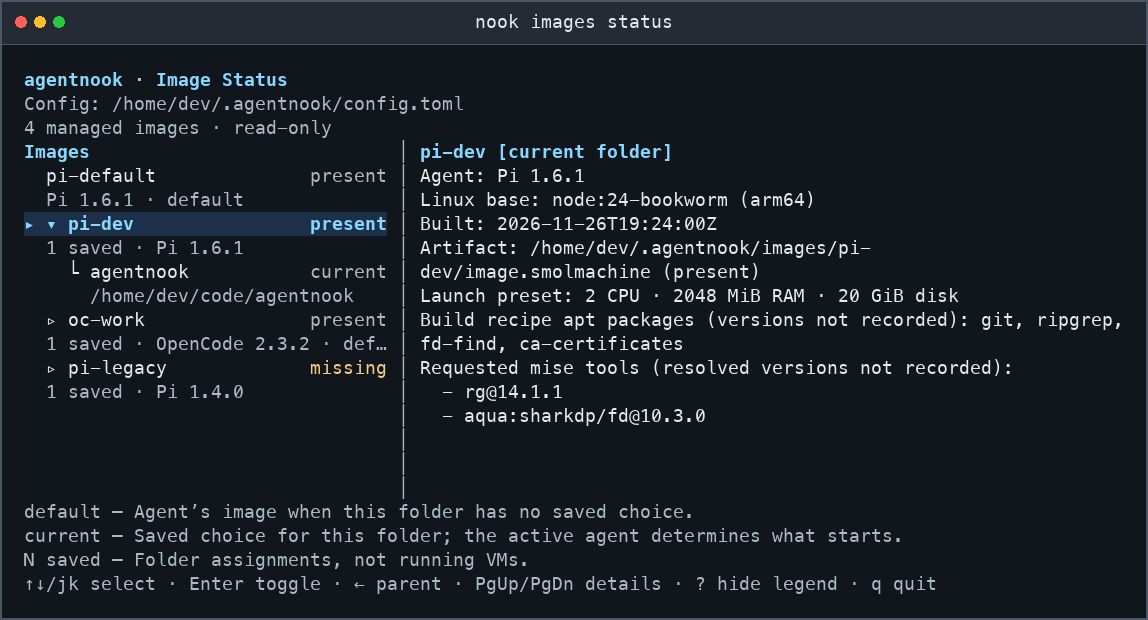
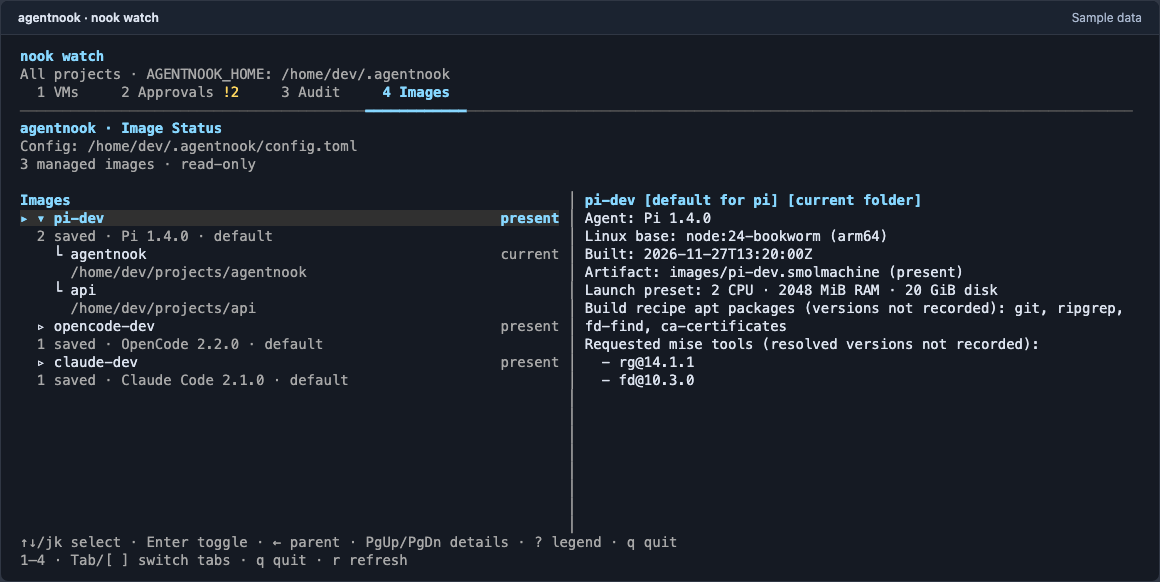
docs: translate README and refresh Watch screenshots

diff --git a/README.md b/README.md
@@ -4,120 +4,123 @@
 
 # agentnook
 
-Eine eigene Ecke für deinen Coding-Agenten. `nook` startet **Pi**, **OpenCode v2** oder **Claude Code** in einer kurzlebigen [smolvm](https://github.com/smol-machines/smolvm)-VM. Logins, Einstellungen, Skills und Erweiterungen bleiben erhalten.
+A nook of its own for your coding agent. `nook` runs **Pi**, **OpenCode v2**, or **Claude Code** in a short-lived [smolvm](https://github.com/smol-machines/smolvm) VM. Logins, settings, skills, and extensions persist after the VM exits.
 
-## Schnellstart
+## Quick start
 
-Voraussetzungen: macOS mit Apple Silicon oder Linux mit KVM; **smolvm ≥ 1.36.1** im `PATH`.
+Requirements: macOS on Apple Silicon or Linux with KVM, and **smolvm ≥ 1.36.1** on your `PATH`.
 
 ```sh
 curl -qfsS https://raw.githubusercontent.com/flobilosaurus/agentnook/main/install.sh | sh
 ```
 
-Danach `nook` im Projektordner starten.
+Then run `nook` from your project directory.
 
-## Wichtige Befehle
+## Common commands
 
-| Befehl | Zweck |
+| Command | What it does |
 | --- | --- |
-| `nook --select` | Agent oder Profil wechseln |
-| `nook -- --continue` | Argumente an den Agenten weitergeben |
-| `nook --mount ../lib:/mnt/lib:ro` | Zusätzlichen Ordner schreibgeschützt freigeben |
-| `nook --env GITHUB_TOKEN` | Gespeicherte Liste freigegebener Host-Variablen ersetzen |
-| `nook --clear-env` | Gespeicherte Variablenfreigaben entfernen |
-| `nook images` | Lokale Images anzeigen |
-| `nook images status` | Aufbau der Images und Toollisten anzeigen |
-| `nook watch` | VMs, TCP-Freigaben, Netzwerk-Audit und Images in einer TUI |
-| `nook network` | Watch direkt im Tab Approvals öffnen (`--json` für Skripte) |
-| `nook --help-all` | Alle Optionen anzeigen |
+| `nook --select` | Switch agents or profiles |
+| `nook -- --continue` | Pass arguments to the agent |
+| `nook --mount ../lib:/mnt/lib:ro` | Share an additional directory read-only |
+| `nook --env GITHUB_TOKEN` | Replace the saved list of forwarded host variables |
+| `nook --clear-env` | Clear saved environment variable forwarding |
+| `nook images` | List local images |
+| `nook images status` | Inspect image contents and tool lists |
+| `nook watch` | View VMs, TCP approvals, network audit, and images in one terminal UI |
+| `nook network` | Open Watch on the Approvals tab (`--json` for scripts) |
+| `nook --help-all` | Show all options |
 
-## Umgebungsvariablen freigeben
+## Forward environment variables
 
 ```sh
 nook --env GITHUB_TOKEN --env OPENAI_API_KEY
 ```
 
-`--env` ersetzt die bisherige Liste für diesen Projektordner und Agenten. `config.toml` speichert nur Namen, keine Werte. Ein späterer Start mit `nook` verwendet die Liste erneut und liest die aktuellen Werte vom Host. `nook --clear-env` entfernt die Freigaben für künftige Starts.
+`--env` replaces the saved list for this project directory and agent. `config.toml` stores names only, never values. On later launches, `nook` reuses the list and reads current values from the host. `nook --clear-env` clears the list for future launches.
 
-Die Variablen müssen auf dem Host exportiert sein. Fehlende Variablen führen zum Abbruch. `--env` akzeptiert keine `NAME=WERT`-Zuweisungen. `--dry-run` zeigt nur Namen und ändert nichts an der Konfiguration.
+Export the variables on the host before launching. If a variable is missing, launch fails. `--env` does not accept `NAME=VALUE` assignments. `--dry-run` shows names only and does not change configuration.
 
-**Nur bewusst freigeben:** Der Agent und seine Kindprozesse können die Werte bei jedem Start lesen und weitergeben.
+**Forward only what you intend to share:** The agent and its child processes can read and pass on these values on every launch.
 
-## Images und Tools
+## Images and tools
 
-`nook images build` installiert zusätzliche Tools mit [mise](https://mise.jdx.dev/) fest ins Image.
+`nook images build` uses [mise](https://mise.jdx.dev/) to install extra tools into the image.
 
-**`--tool NAME@VERSION`** gibt ein Tool direkt an. Wiederhole das Flag für weitere Tools:
+**`--tool NAME@VERSION`** specifies a tool directly. Repeat the flag to add more tools:
 
 ```sh
 nook images build pi-dev --agent pi --tool rg@14.1.1 --tool fd@10.3.0
 ```
 
-**`--mise-config PFAD`** übernimmt `[tools]` aus einer mise-TOML-Datei, ohne Tasks oder Hooks auszuführen:
+**`--mise-config PATH`** reads the `[tools]` section of a mise TOML file without running tasks or hooks:
 
 ```sh
 nook images build pi-dev --agent pi --mise-config ./mise.toml
 ```
 
-Beide Flags lassen sich kombinieren.
+You can combine both flags. See built images and their tools in the [Images tab](#4-images).
 
-`nook images status` zeigt Images, Tools und gespeicherte Projektzuordnungen, ohne eine VM zu starten. Die Details einer Projektzuordnung zeigen die konfigurierten Variablennamen, nie Werte.
+## Customize agent settings, skills, and extensions
 
-![Image-Status mit ausgewähltem Pi-Image, mise-Tools und aufgeklappter Projektzuordnung](docs/screenshots/images-status.png)
+A **profile**, such as `work` or `private`, stores logins, settings, skills, and extensions separately for each agent. This data survives VM shutdown and is shared across projects that use the same profile and agent.
 
-## Einstellungen / Skills / Erweiterungen des Agenten bearbeiten
+On the host, agent data lives at `~/.agentnook/profiles/<profile>/<agent>/`. If `AGENTNOOK_HOME` is set, `profiles/` lives there instead. Inside the VM, the agent's directory is its home directory (`~`).
 
-Ein **Profil** wie `arbeit` oder `privat` speichert Logins, Einstellungen, Skills und Erweiterungen pro Agent. Die Daten bleiben nach VM-Ende erhalten und werden in allen Projekten mit demselben Profil und Agenten wiederverwendet.
+**Settings and skills:** If you change settings or add a skill in a Pi VM using the `work` profile, other Pi sessions with `work` use the same files. In running sessions, `/reload` picks up changes; new Pi sessions read them automatically. Some settings, such as the default thinking level, apply only at startup. Other profiles are unaffected.
 
-Auf dem Host: `~/.agentnook/profiles/<profil>/<agent>/`. Ist `AGENTNOOK_HOME` gesetzt, liegt `profiles/` dort. In der VM ist der jeweilige Agentenordner das Home-Verzeichnis (`~`).
-
-**Einstellungen und Skills:** Änderst du in einer Pi-VM Einstellungen oder fügst einen Skill im Profil `arbeit` hinzu, nutzen andere Pi-Sessions mit `arbeit` dieselben Dateien. In bereits laufenden Sessions lädt `/reload` die Änderungen ein; neue Pi-Starts lesen sie automatisch. Manche Einstellungen, etwa der Standard-Denkmodus, greifen erst beim Start. Andere Profile bleiben unverändert.
-
-| Agent | Einstellungsdatei in der VM | Skill-Ordner in der VM |
+| Agent | Settings file in the VM | Skills directory in the VM |
 | --- | --- | --- |
 | Pi | `~/.pi/agent/settings.json` | `~/.pi/agent/skills/` |
 | OpenCode v2 | `~/.config/opencode/opencode.json` | `~/.config/opencode/skills/` |
 | Claude Code | `~/.claude/settings.json` | `~/.claude/skills/` |
 
-**Erweiterungen installieren:** Platzhalter durch Paket- oder Plugin-Namen ersetzen:
+**Install extensions:** Replace the placeholders with package or plugin names:
 
 ```sh
-nook --agent pi --profile arbeit -- install npm:PAKETNAME </dev/null
-nook --agent opencode --profile arbeit -- plugin add PAKETNAME
-nook --agent claude --profile arbeit -- plugin install PLUGIN@MARKETPLACE --scope user
+nook --agent pi --profile work -- install npm:PACKAGE </dev/null
+nook --agent opencode --profile work -- plugin add PACKAGE
+nook --agent claude --profile work -- plugin install PLUGIN@MARKETPLACE --scope user
 ```
 
-Lokale Erweiterungen gehören bei Pi nach `~/.pi/agent/extensions/`, bei OpenCode nach `~/.config/opencode/plugins/` (VM-Pfade). Danach Agent neu starten.
+Inside the VM, put local Pi extensions in `~/.pi/agent/extensions/` and OpenCode plugins in `~/.config/opencode/plugins/`. Then restart the agent.
 
-## Einblicke ins Terminal
+## `nook watch`
 
-### `nook watch`
+Open `nook watch` in a separate terminal. Watch covers all projects in the current `AGENTNOOK_HOME` without starting or stopping VMs. At 80 columns or wider, the list and details appear side by side.
 
-`nook watch` vereint vier Tabs im aktuellen `AGENTNOOK_HOME`. Wechsel mit `1`–`4`, `Tab` oder `Shift+Tab`. Ab 80 Spalten stehen Listen und Details nebeneinander.
+- `1`–`4`, `Tab`, or `Shift+Tab`: switch tabs.
+- `↑`/`↓` or `j`/`k`: select an entry.
+- `q`: close Watch. Running VMs stay active.
 
-| Tab | Inhalt |
-| --- | --- |
-| `1 VMs` | Laufende Agenten-VMs aller Projekte, gruppiert nach Profil. Details zeigen beim Start freigegebene Variablennamen, nie Werte. `Enter` öffnet das Audit der gewählten VM. |
-| `2 Approvals` | Offene TCP-Anfragen in `ask` und jüngste Entscheidungen. Anfrage auswählen, dann `a` einmal erlauben, `s` für diesen VM-Lauf erlauben oder `d` ablehnen. |
-| `3 Audit` | Schreibgeschützte Netzwerkhistorie inklusive beendeter VMs. `PgUp`/`PgDn` blättert, `f` filtert laufende VMs, `x` löscht einen VM-Filter. |
-| `4 Images` | Image-Status, Tools und gespeicherte Projektzuordnungen. `r` aktualisiert. |
+### 1 VMs
 
-Watch startet oder stoppt keine VM. `nook network` und interaktives `nook images status` öffnen die passenden Watch-Tabs.
+Running agent VMs, grouped by profile. Details show VM status and agent activity separately, along with launch limits, mounts, and the names of variables forwarded at launch, never their values. Press `Enter` to open the audit for the selected VM.
 
-![Watch-Ansicht mit laufenden Pi-, OpenCode- und Claude-Code-VMs in den Profilen private und work](docs/screenshots/watch.png)
+![Watch VMs tab: four sample VMs in two profiles, with the VM list on the left and details on the right](docs/screenshots/watch.png)
 
-### Herdr
+### 2 Approvals
 
-Startest du `nook` interaktiv in einem [Herdr](https://herdr.dev/)-Pane, meldet es den Status von Pi, OpenCode v2 oder Claude Code automatisch an dieses Pane. So siehst du in Herdr, welcher Agent arbeitet (`working`), bereit ist (`idle`) oder auf deine Eingabe wartet (`blocked`), ohne zum jeweiligen Tab wechseln zu müssen.
+Pending TCP requests in `--network ask` mode and recent decisions. Select a request and press `a` to allow it once, `s` to allow that exact destination IP and port for the current VM run, or `d` to deny it. Unanswered requests are denied after 12 seconds. `nook network` opens this tab directly.
 
-Herdr kann aus Statuswechseln in Hintergrund-Tabs Benachrichtigungen erzeugen: **Braucht Aufmerksamkeit** beim Wechsel zu `blocked`, **Fertig** beim Wechsel von `working` oder `blocked` zu `idle`.
+![Watch Approvals tab: two pending TCP requests and details for the selected request](docs/screenshots/network.png)
 
-### `nook network`
+### 3 Audit
 
-Im Tab **Approvals** entscheidest du im Modus `--network ask`, welche ausgehenden TCP-Verbindungen der Agent aufbauen darf. Öffne Watch dafür in einem separaten Terminal. Unbeantwortete Anfragen werden nach 12 Sekunden abgelehnt. Der Tab **Audit** zeigt gespeicherte Entscheidungen auch nach Ende der VM: erlaubte und blockierte Zugriffe in `ask`, nur blockierte in `full`.
+Read-only network history, including VMs that have stopped. `ask` records both allowed and blocked decisions; `full` records only blocked ones. Use `PgUp`/`PgDn` to page through history, `f` to toggle between all VMs and running VMs only, and `x` to clear a single-VM filter.
 
-![Network-Ansicht mit zwei offenen TCP-Anfragen und den letzten Netzwerkentscheidungen](docs/screenshots/network.png)
+`nook network --machine NAME` opens the audit for that VM. `nook network --json` outputs the data without opening the TUI.
 
-`nook network --json` gibt die Daten weiterhin ohne TUI aus. Die Screenshots zeigen frühere Einzelansichten.
+![Watch Audit tab: allowed and blocked decisions for running and stopped VMs](docs/screenshots/network-history.png)
 
-![Audit mit erlaubten und blockierten Zugriffen laufender und beendeter VMs](docs/screenshots/network-history.png)
+### 4 Images
+
+Managed images, installed tools, and saved project assignments. Assignment details show configured environment variable names, never values. Press `Enter` to expand or collapse an image's assignments and `r` to refresh. `nook images status` opens this tab in a terminal and prints plain text otherwise.
+
+![Watch Images tab: a Pi image with mise tools and expanded project assignments](docs/screenshots/images-status.png)
+
+## Herdr
+
+When you run `nook` interactively in a [Herdr](https://herdr.dev/) pane, it reports the status of Pi, OpenCode v2, or Claude Code to that pane. You can see which agent is working (`working`), ready (`idle`), or waiting for input (`blocked`) without switching tabs.
+
+Herdr can notify you when an agent in a background tab needs attention (changes to `blocked`) or finishes (changes from `working` or `blocked` to `idle`).
